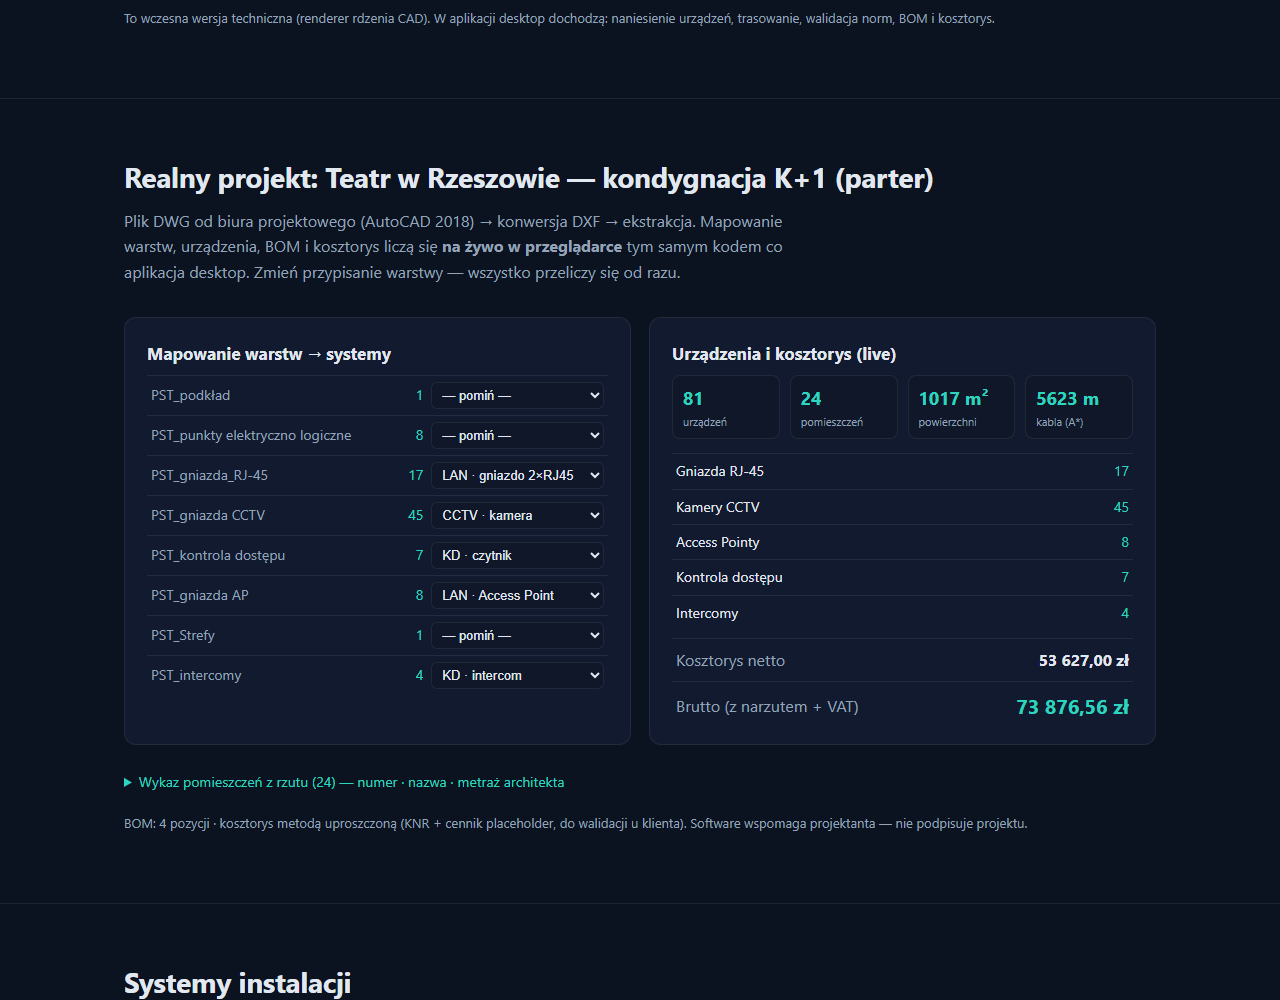
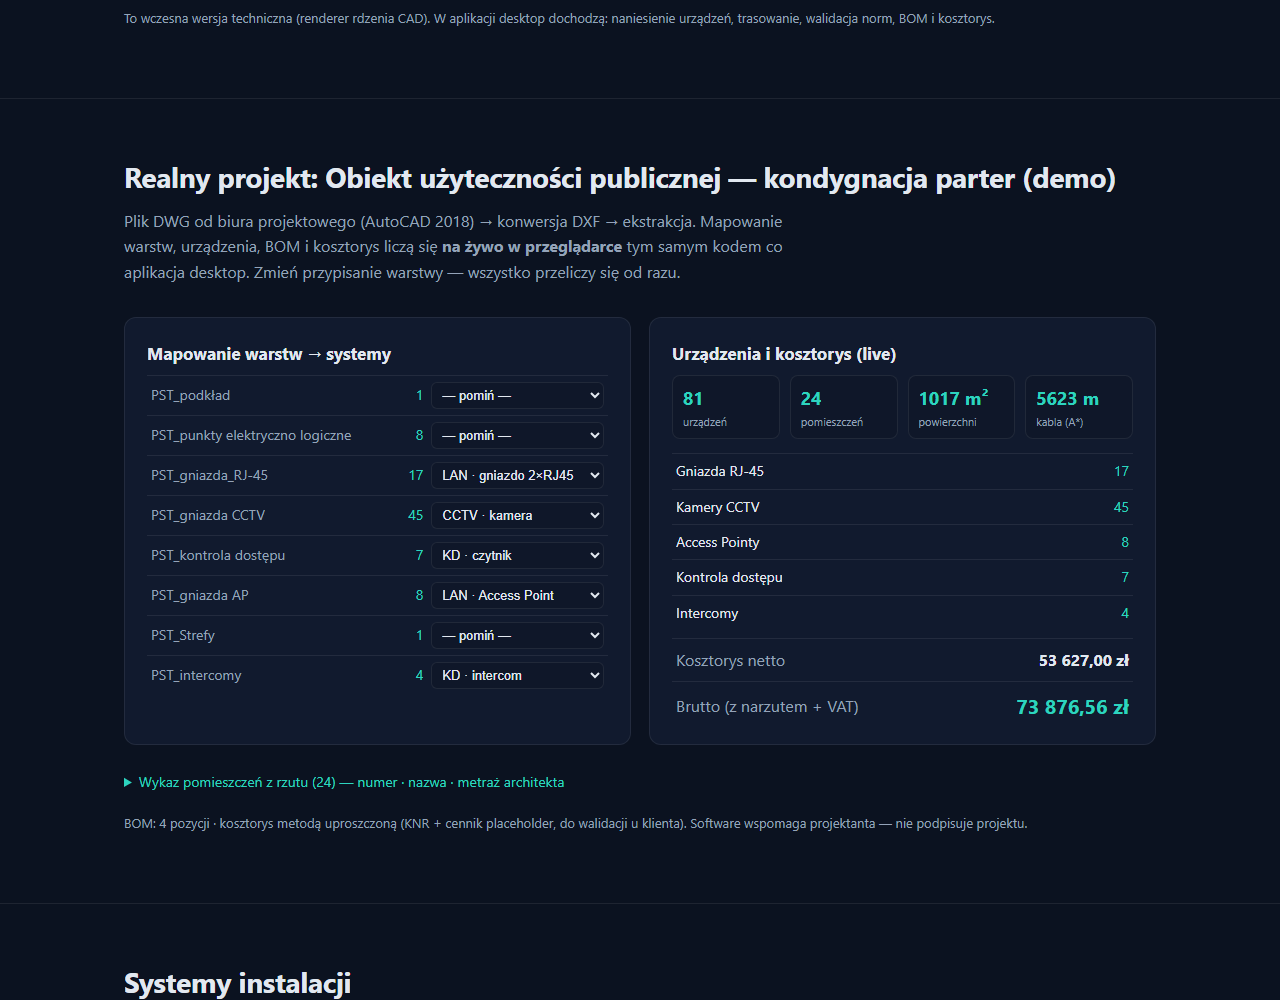
chore(web): anonimizacja danych klienta w demo webowym
bake_client(anonymize=True, domyslnie): nazwy pomieszczen -> "Pomieszczenie",
nazwa projektu -> generyczna, atrybuty IDFX -> puste. Zostaja liczby (metraze,
liczby urzadzen, dlugosci kabli). Desktop uzywa realnego DXF wprost.
Zweryfikowane: 89 urzadzen, brutto 78 075,48 zl, bez bledow konsoli.

Changed region(s): [[0.25, 0.155, 0.875, 0.217]]

diff --git a/scripts/bake_web_data.py b/scripts/bake_web_data.py
@@ -79,10 +79,14 @@ def main():
         print(f"  - {s['name'].encode('ascii', 'replace').decode()}: {s['area'] / 1e6:.1f} m2")
 
 
-def bake_client(server):
+def bake_client(server, anonymize=True):
     """Piecze realny rzut klienta (K+1) do client-floor.json: warstwy, pomieszczenia,
     INSERT-y urządzeń i trasy A*. Mapowanie warstw→systemy i BOM/kosztorys liczy się
-    LIVE w przeglądarce (ten sam kod TS co w aplikacji)."""
+    LIVE w przeglądarce (ten sam kod TS co w aplikacji).
+
+    anonymize=True (domyślnie): usuwa dane identyfikujące (nazwa projektu, nazwy
+    pomieszczeń, atrybuty IDFX) — artefakt webowy jest publiczny. Zostają liczby:
+    metraże, liczby urządzeń, długości kabli. Desktop używa realnego DXF wprost."""
     if not Path(CLIENT_DXF).exists():
         print(f"[client] pominięto — brak pliku {CLIENT_DXF}")
         return
@@ -107,11 +111,23 @@ def bake_client(server):
             src = dev["inserts"][r["sourceIndex"]]["at"]
             cable_routes.append({"at": src, "lengthM": r["length"] / 1000.0})
 
+    rooms_data = rooms["rooms"]
+    inserts_data = dev["inserts"]
+    meta_name = "Obiekt użyteczności publicznej — kondygnacja parter (demo)"
+    if anonymize:
+        # Usuń dane identyfikujące: nazwy pomieszczeń → generyczne, atrybuty INSERT → puste.
+        for rm in rooms_data:
+            rm["name"] = "Pomieszczenie"
+        for ins in inserts_data:
+            ins["attribs"] = {}
+    else:
+        meta_name = "Teatr w Rzeszowie — kondygnacja K+1 (parter)"
+
     payload = {
-        "meta": {"name": "Teatr w Rzeszowie — kondygnacja K+1 (parter)", "level": 1, "units": doc["units"], "unitMm": 1},
+        "meta": {"name": meta_name, "level": 1, "units": doc["units"], "unitMm": 1, "anonymized": anonymize},
         "layers": layers,
-        "rooms": rooms["rooms"],
-        "inserts": dev["inserts"],
+        "rooms": rooms_data,
+        "inserts": inserts_data,
         "cableRoutes": cable_routes,
         "cableTotalM": round(sum(c["lengthM"] for c in cable_routes), 1),
     }